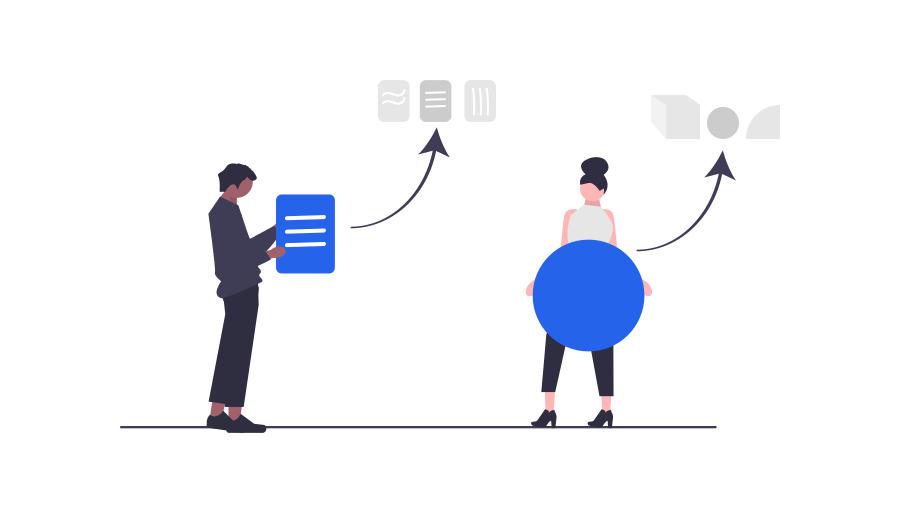
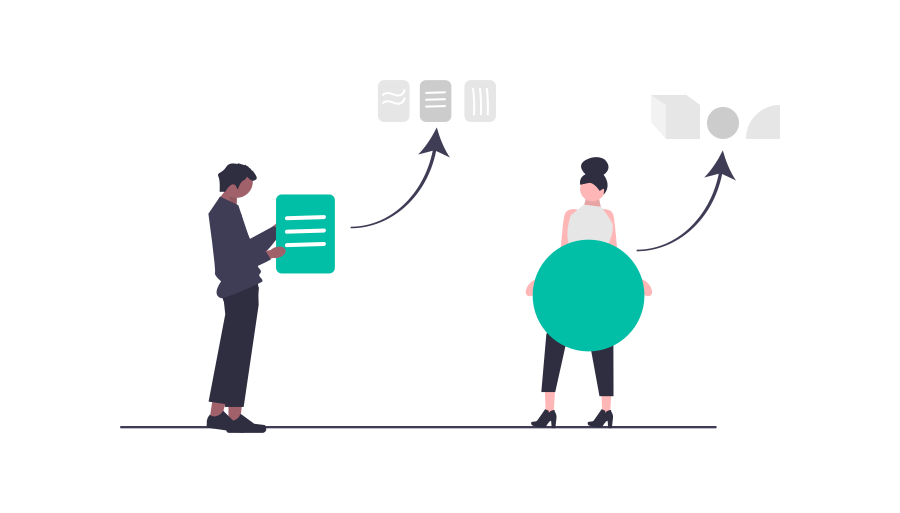
done, 4steps, sidebar, modelcard

Changed region(s): [[0.5911, 0.4678, 0.7156, 0.6862], [0.28, 0.3743, 0.3733, 0.5614]]

diff --git a/src/pages/project/build/steps/step_four.jsx b/src/pages/project/build/steps/step_four.jsx
@@ -228,9 +228,12 @@ const StepFour = (props) => {
 			{/* BIỂU ĐỒ SAU KHI TRAIN XONG */}
 			<section>
 				<div className="flex">
-					<h1 className="text-3xl font-bold text-center mb-6">
-						Outcomes of the training procedure
-					</h1>
+					<h1 className="text-3xl font-bold text-center mb-6">				
+						<span className="bg-gradient-to-r from-emerald-700 to-emerald-500 text-transparent bg-clip-text">
+						Outcomes 
+						</span>{' '}
+						of the training procedure
+						</h1>					
 					<svg
 						xmlns="http://www.w3.org/2000/svg"
 						viewBox="0 0 24 24"
@@ -250,7 +253,7 @@ const StepFour = (props) => {
 							updateState({ showUploadModal: true })
 							// handleDeploy();
 						}}
-						className="items-center ml-auto text-white bg-gradient-to-r from-cyan-500 to-blue-500 hover:bg-gradient-to-bl focus:ring-2 focus:outline-none focus:ring-cyan-300 dark:focus:ring-cyan-800 font-medium rounded-lg text-sm px-5 py-2.5 text-center me-2 mb-2"
+						className="items-center ml-auto text-white bg-gradient-to-r from-emerald-500 to-emerald-700 hover:bg-gradient-to-bl focus:ring-2 hover:ring-2 hover:ring-emerald-300 focus:outline-none focus:ring-emerald-300 dark:focus:ring-emerald-800 font-medium rounded-lg text-sm px-5 py-2.5 text-center me-2 mb-2"
 						// hidden
 					>
 						Predict
@@ -289,7 +292,7 @@ const StepFour = (props) => {
 									<div className="flex flex-col justify-between relative z-10 space-y-12 lg:space-y-6">
 										<div className="space-y-2">
 											<p className=" text-gray-700">
-												<span className="font-bold">
+												<span className="font-bold text-emerald-800">
 													Train loss (train_loss)
 												</span>{' '}
 												measures a model's prediction
@@ -300,21 +303,21 @@ const StepFour = (props) => {
 												performance.
 											</p>
 											<p className=" text-gray-700">
-												<span className="font-bold">
+												<span className="font-bold text-emerald-800">
 													Validation loss (val_loss)
 												</span>{' '}
 												evaluates a model's performance
 												on unseen data, providing
 												insight into its generalization
 												ability. A significant gap
-												between train loss and val_loss
+												between <span className="text-emerald-800 font-semibold">train_loss</span> and <span className="text-emerald-800 font-semibold"> val_loss </span>
 												often indicates overfitting,
 												where the model performs well on
 												training data but poorly on new
 												data.
 											</p>
 											<p className=" text-gray-700">
-												<span className="font-bold">
+												<span className="font-bold text-emerald-800">
 													Validation accuracy
 													(val_accuracy)
 												</span>{' '}
@@ -398,7 +401,7 @@ const StepFour = (props) => {
 
 										<h3 className="text-[#666] font-[700] p-[15px] text-[24px]">
 											Total Prediction:{' '}
-											<strong className="text-blue-600">
+											<strong className="text-emerald-600">
 												{
 													// stepFourState.uploadFiles
 													// 	?.length
@@ -419,7 +422,7 @@ const StepFour = (props) => {
 
 										<h3 className="text-[#666] font-[700] p-[15px] text-[24px]">
 											Correct Prediction:{' '}
-											<strong className="text-blue-600">
+											<strong className="text-emerald-600">
 												{' '}
 												{
 													stepFourState.userConfirm.filter(
@@ -433,7 +436,7 @@ const StepFour = (props) => {
 
 										<h3 className="text-[#666] font-[700] p-[15px] text-[24px]">
 											Accuracy:{' '}
-											<strong className="text-blue-600">
+											<strong className="text-emerald-600">
 												{/* {parseFloat(
 													stepFourState.userConfirm.filter(
 														(item) =>
@@ -477,7 +480,7 @@ const StepFour = (props) => {
 									<div className="bg-gray-50 px-4 py-3 sm:flex sm:px-6 justify-start">
 										<button
 											type="button"
-											className="mt-3 inline-flex w-full justify-center rounded-md bg-white px-3 py-2 text-sm font-semibold text-gray-900 shadow-sm ring-1 ring-inset ring-gray-300 hover:bg-gray-50 sm:mt-0 sm:w-auto"
+											className="mt-3 inline-flex w-full justify-center rounded-md bg-white hover:bg-red-100 px-3 py-2 text-sm font-semibold text-gray-900 shadow-sm ring-1 ring-inset ring-gray-300 hover:bg-gray-50 sm:mt-0 sm:w-auto"
 											onClick={() =>
 												updateState({
 													showResultModal: false,
@@ -488,7 +491,7 @@ const StepFour = (props) => {
 										</button>
 										<button
 											type="button"
-											className="ml-auto w-fit inline-flex items-center justify-center rounded-md border border-transparent bg-blue-600 px-4 py-2 text-sm font-medium text-white shadow-sm hover:bg-blue-700 focus:outline-none focus:ring-2 focus:ring-blue-500 focus:ring-offset-2"
+											className="ml-auto w-fit inline-flex items-center justify-center rounded-md border border-transparent bg-emerald-700 hover:bg-emerald-600 px-4 py-2 text-sm font-medium text-white shadow-sm focus:outline-none focus:ring-2 focus:ring-emerald-500 focus:ring-offset-2"
 											onClick={() => {
 												updateState({
 													showResultModal: false,

diff --git a/src/pages/project/predict/ImagePredict.jsx b/src/pages/project/predict/ImagePredict.jsx
@@ -130,7 +130,7 @@ const ImagePredict = ({
 			stepFourState.showImageModal ? (
 				<>
 					<h1 class="mb-5 text-4xl font-extrabold text-gray-900 text-left mt-10 flex">
-						<span class="text-transparent bg-clip-text bg-gradient-to-r to-[#1904e5] from-[#fab2ff] mr-2">
+						<span class="text-transparent bg-clip-text bg-gradient-to-r to-emerald-500 from-emerald-700 mr-2">
 							Prediction
 						</span>{' '}
 						result
@@ -185,13 +185,13 @@ const ImagePredict = ({
 										className="object-cover w-full h-[75%] rounded-md"
 									/>
 								)}
-								<p className="text-left text-[#1904e5] font-semibold text-4xl text-transform: uppercase mt-4 mb-3">
+								<p className="text-left text-emerald-700 font-bold text-4xl text-transform: uppercase mt-4 mb-3">
 									{stepFourState.confidenceLabel}
 								</p>
 								<article className="text-balance">
 									Predicting data is susceptible to errors for
 									several reasons, including{' '}
-									<a class="underline decoration-indigo-500">
+									<a class="underline decoration-emerald-500">
 										incomplete or noisy datasets, biases in
 										the training data, and limitations in
 										the model’s algorithms.
@@ -304,7 +304,7 @@ const ImagePredict = ({
 											<span className="absolute top-0 left-0 w-40 h-40 -mt-10 -ml-3 transition-all duration-700 bg-blue-500 rounded-full blur-md ease"></span>
 											<span className="absolute inset-0 w-full h-full transition duration-700 group-hover:rotate-180 ease">
 												<span className="absolute bottom-0 left-0 w-24 h-24 -ml-10 bg-purple-500 rounded-full blur-md"></span>
-												<span className="absolute bottom-0 right-0 w-24 h-24 -mr-10 bg-pink-500 rounded-full blur-md"></span>
+												<span className="absolute bottom-0 right-0 w-24 h-24 -mr-10 bg-emerald-500 rounded-full blur-md"></span>
 											</span>
 											<span className="relative text-white">
 												Effectiveness
@@ -328,7 +328,7 @@ const ImagePredict = ({
 								<h1 className="text-xl font-bold mb-2">
 									Confident Score
 								</h1>
-								<p className="px-4 py-2 text-6xl text-transparent bg-clip-text bg-gradient-to-r to-[#1904e5] from-[#fab2ff] rounded-lg text-center">
+								<p className="px-4 py-2 text-6xl font-bold text-transparent bg-clip-text bg-gradient-to-r to-emerald-500 from-emerald-700 rounded-lg text-center">
 									{parseFloat(
 										stepFourState.confidenceScore
 									).toFixed(2)}
@@ -342,9 +342,9 @@ const ImagePredict = ({
 					htmlFor="file"
 					onClick={() => updateState({ showPredictModal: true })}
 					// for="file"
-					className="flex flex-col w-[95%] cursor-pointer mt-24 shadow justify-between mx-auto items-center p-[10px] gap-[5px] bg-[rgba(0,110,255,0.041)] h-[300px] rounded-[10px] "
+					className="flex flex-col w-[95%] cursor-pointer mt-24 shadow justify-between mx-auto items-center p-[10px] gap-[5px] bg-emerald-50 hover:bg-white h-[300px] rounded-[10px] "
 				>
-					<div className="header flex flex-1 w-full border-[2px] justify-center items-center flex-col border-dashed border-[#4169e1] rounded-[10px]">
+					<div className="header flex flex-1 w-full border-[2px] justify-center items-center flex-col border-dashed border-emerald-700 rounded-[10px]">
 						<svg
 							xmlns="http://www.w3.org/2000/svg"
 							width="100"

diff --git a/src/components/ProjectSidebar.jsx b/src/components/ProjectSidebar.jsx
@@ -18,7 +18,7 @@ const ProjectSidebar = ({ projectID, className }) => {
 
     return (
         <div className={clsx('duration-300', className)}>
-            <div className="h-[calc(100vh-60px)] flex flex-grow flex-col overflow-y-auto bg-blue-50">
+            <div className="h-[calc(100vh-60px)] flex flex-grow flex-col overflow-y-auto bg-emerald-50">
                 <div className="py-3 flex flex-grow flex-col justify-between">
                     <nav className="flex flex-col gap-4 px-2 pb-4">
                         {navigation.map((item) => (
@@ -28,7 +28,7 @@ const ProjectSidebar = ({ projectID, className }) => {
                                 className={clsx(
                                     item.current
                                         ? 'text-blue-900'
-                                        : 'text-center text-gray-600 hover:text-blue-900',
+                                        : 'text-center text-gray-600 hover:text-emerald-900',
                                     'transition group flex flex-col items-center justify-center text-sm font-medium'
                                 )}
                             >
@@ -36,7 +36,7 @@ const ProjectSidebar = ({ projectID, className }) => {
                                     className={clsx(
                                         item.current
                                             ? 'bg-blue-200 text-blue-900'
-                                            : 'text-gray-400 group-hover:bg-blue-200 group-hover:text-blue-900',
+                                            : 'text-gray-400 group-hover:bg-emerald-200 group-hover:text-blue-900',
                                         'mx-auto flex-shrink-0 rounded-xl w-11 h-11',
                                         'p-2'
                                     )}
@@ -51,13 +51,13 @@ const ProjectSidebar = ({ projectID, className }) => {
                     <a
                         href={PATHS.PROJECT_SETTINGS(projectID)}
                         className={clsx(
-                            'text-center text-gray-600 hover:text-blue-900',
+                            'text-center text-gray-600 hover:text-emerald-900',
                             'transition group flex flex-col items-center text-sm font-medium'
                         )}
                     >
                         <SettingIcon
                             className={clsx(
-                                'text-gray-400 group-hover:bg-blue-200 group-hover:text-blue-900',
+                                'text-gray-400 group-hover:bg-emerald-200 group-hover:text-blue-900',
                                 'flex-shrink-0 rounded-xl w-11 h-11',
                                 'px-2 py-2'
                             )}

diff --git a/src/pages/project/models/card.jsx b/src/pages/project/models/card.jsx
@@ -1,4 +1,5 @@
 import { CubeTransparentIcon } from '@heroicons/react/24/outline'
+import { CubeIcon } from '@heroicons/react/24/outline'
 import dayjs from 'dayjs'
 import relativeTime from 'dayjs/plugin/relativeTime'
 import { PATHS } from 'src/constants/paths'
@@ -14,19 +15,21 @@ export default function ModelCard({ model }) {
 			<div
 				key={model._id}
 				className={classNames(
-					'relative group p-6 focus-within:ring-2 focus-within:ring-inset focus-within:ring-blue-500 rounded-lg bg-white shadow '
+					'relative group p-6 bg-grey-100 hover:bg-gradient-to-r from-emerald-50 to-emerald-100 hover:ring-2 hover:ring-emerald-200 shadow-md transition duration-300 rounded-lg shadow '
 				)}
 			>
 				<div>
 					<span
 						className={classNames(
-							'text-blue-700',
-							'bg-blue-50',
-							'rounded-lg inline-flex p-3 ring-4 ring-white'
+							'text-emerald-800',
+							'bg-[#F7F8F8]',
+							'rounded-lg inline-flex p-3 ring-4 ring-white',
+							'transition duration-450',
+							'group-hover:scale-110 group-hover:bg-emerald-100 ease-in-out'
 						)}
 					>
-						<CubeTransparentIcon
-							className="h-6 w-6"
+						<CubeIcon
+							className="h-7 w-7"
 							aria-hidden="true"
 						/>
 					</span>

diff --git a/src/components/NavBar.jsx b/src/components/NavBar.jsx
@@ -33,7 +33,7 @@ const NavBar = () => {
                         <div className="relative flex h-[60px] justify-between">
                             <div className="absolute inset-y-0 left-0 flex items-center sm:hidden">
                                 {/* Mobile menu button */}
-                                <Disclosure.Button className="inline-flex items-center justify-center rounded-md p-2 text-gray-400 hover:bg-gray-100 hover:text-gray-500 focus:outline-none focus:ring-2 focus:ring-inset focus:ring-blue-500">
+                                <Disclosure.Button className="inline-flex items-center justify-center rounded-md p-2 text-gray-400 hover:bg-gray-100 hover:text-gray-500 focus:outline-none focus:ring-2 focus:ring-inset focus:ring-emerald-500">
                                     <span className="sr-only">
                                         Open main menu
                                     </span>

diff --git a/src/pages/home/index.jsx b/src/pages/home/index.jsx
@@ -152,7 +152,7 @@ export default function Home() {
             <section class="text-gray-600 body-font">
                 <div class="max-w-5xl pt-52 pb-24 mx-auto">
                     <h1 class="text-center text-7xl lh-6 ld-04 font-bold font-sans text-emerald-950 mb-6">
-                        Create your own Model<br /> Fast and Easy
+                        Create your own <span>model</span><br/>Quick and Simple
                     </h1>
                     <h2 class="text-2xl font-4 font-bold font-mono lh-6 ld-04 pb-11 text-gray-700 text-center">
                         Pixel Brain is free to use template website for websites made

diff --git a/src/pages/projects/card.jsx b/src/pages/projects/card.jsx
@@ -29,7 +29,7 @@ export default function ProjectCard({ project, className, getProjects }) {
 			<div
 				key={project._id}
 				className={clsx(
-					'group relative rounded-xl bg-grey-100 hover:ring-2 hover:ring-emerald-200 shadow-md transition duration-300',
+					'group relative rounded-xl bg-grey-100 hover hover:ring-2 hover:ring-emerald-200 shadow-md transition duration-300',
 					className
 				)}
 			>
